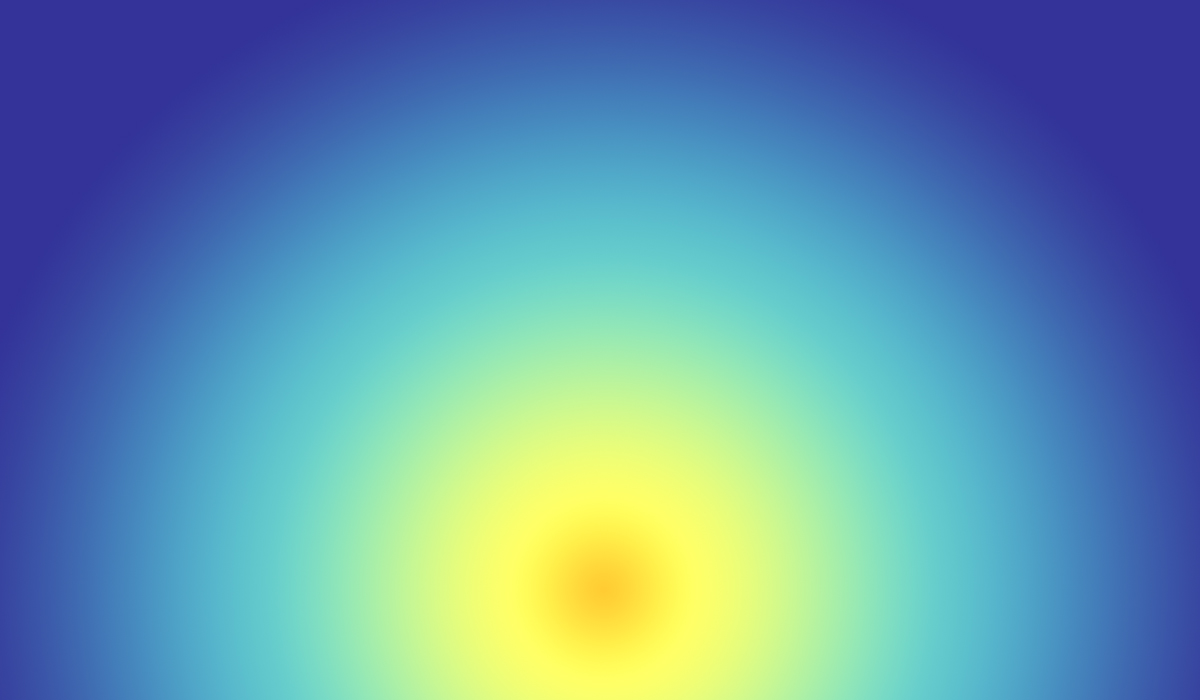
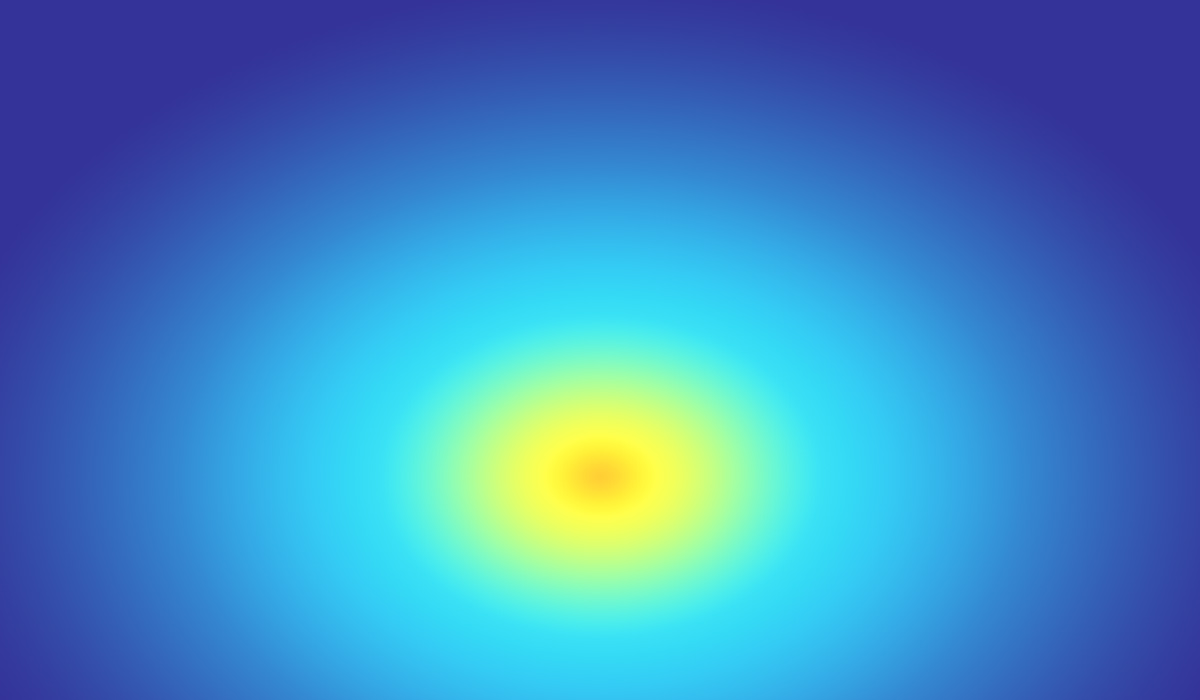
applied conditions

diff --git a/script.js b/script.js
@@ -2,8 +2,10 @@
  * Created by Shirley on 3/2/16.
  */
 
-var sunrise, sunset, sunriseText, sunsetText, time, condition, code, morningLight, eveningLight,city,tempF,tempC, current,msg;
+var sunrise, sunset, sunriseText, sunsetText, time, condition, code, morningLight, eveningLight,city,tempF,tempC, current,msg,seaLevel;
+var drops = [];
 var isF = true;
+var isSnow = false;
 var timezone = -9;
 
 if ("geolocation" in navigator) {
@@ -64,12 +66,6 @@ $('#abu-dhabi').on('click', function() {
     console.log("city: " + city + " condition:" + condition);
 
 });
-
-
-
-
-
-
 
 $('#unit').on('click',function(){
     isF = !isF;
@@ -140,7 +136,6 @@ $.simpleWeather({
         sunsetText = weather.sunset;
         sunrise = convertTime(weather.sunrise);
         sunset = convertTime(weather.sunset);
-
     }
 });
 
@@ -167,10 +162,15 @@ function setup() {
     $("#skyline").height(0.75*windowHeight-0.66*size);
 
     bgImg = loadImage("images/background.jpg");
+    bgImgAlt = loadImage("images/background-alt.jpg");
     cloudImg = loadImage("images/cloud.png");
 
     morningLight=constrain(map(time, sunrise-3600,36000, 255, 0),0,220);
     eveningLight=constrain(map(time, 50400, sunset+3600, 0, 255),0,220);//bright hours:10-2pm
+
+    for(i=0; i<200;i++){
+        drops.push(new Drop());
+    }
 }
 
 function draw() {
@@ -191,17 +191,12 @@ function draw() {
     risePoint = width / 6;
     setPoint = width - risePoint;
     seaLevel = height / 4 * 3;
-    imageMode(CORNER);
-    background(bgImg);
     morningLight=constrain(map(time, sunrise-3600,36000, 255, 0),0,220);
     eveningLight=constrain(map(time, 50400, sunset+3600, 0, 255),0,220);
 
-    //drawCloud();
-    drawSun();
-
+    checkCondition(code);
 
     //lights
-
     noStroke();
     fill(0, 0, 0, morningLight);
     rect(0, 0, width, height);
@@ -267,36 +262,6 @@ function windowResized() {
     seaLevel = height / 3 * 2;
 }
 
-function drawSun(){
-    //sun
-    sunX = map(time, sunrise, sunset, risePoint, setPoint);
-    sunR = dist(risePoint, seaLevel, width / 2, seaLevel + height / width);
-    if(time<sunrise-600 || time>sunset+600){
-        sunY = -100;
-    }else {
-        sunY = seaLevel + height / width - sqrt(sq(sunR) - sq(sunX - width / 2));
-    }
-    noStroke();
-    fill(255,240,200, 100);
-    ellipse(sunX, sunY, size*1.3, size*1.3);
-    ellipse(sunX, sunY, size*1.7, size*1.7);
-    fill(255);
-    ellipse(sunX, sunY, size, size);
-    fill(255,51,0, eveningLight/2);
-    ellipse(sunX, sunY, size, size);
-}
-
-function drawCloud(){
-    //cloud
-    imageMode(CENTER);
-    if(width>height) {
-        image(cloudImg, width/2,seaLevel/3*2+30,width/1.3,seaLevel/3*2);
-    }else {
-
-        image(cloudImg, width/2,seaLevel/3*2+30,width,seaLevel/3*2);
-    }
-}
-
 function checkTime(i) {
     if (i < 10) {
         i = "0" + i
@@ -335,5 +300,126 @@ function resetAnimation(){
         time = sunrise-6000;
     }else{
         time=current;
+    }
+}
+
+function drawSun(){
+    //sun
+    sunX = map(time, sunrise, sunset, risePoint, setPoint);
+    sunR = dist(risePoint, seaLevel, width / 2, seaLevel + height / width);
+    if(time<sunrise-600 || time>sunset+600){
+        sunY = -100;
+    }else {
+        sunY = seaLevel + height / width - sqrt(sq(sunR) - sq(sunX - width / 2));
+    }
+    noStroke();
+    fill(255,240,200, 100);
+    ellipse(sunX, sunY, size*1.3, size*1.3);
+    ellipse(sunX, sunY, size*1.7, size*1.7);
+    fill(255);
+    ellipse(sunX, sunY, size, size);
+    fill(255,51,0, eveningLight/2);
+    ellipse(sunX, sunY, size, size);
+}
+
+function drawCloud(){
+    imageMode(CENTER);
+    if(width>height) {
+        image(cloudImg, width/2,seaLevel/3*2,width/1.3,seaLevel/3*2+30);
+    }else {
+        image(cloudImg, width/2,seaLevel/3*2+30,width,seaLevel/3*2);
+    }
+}
+
+
+function drawDrops(isSnow){
+    for (var i=0; i<drops.length; i++) {
+        drops[i].isSnow = isSnow;
+        drops[i].move();
+
+    }
+}
+
+
+function Drop() {
+    this.x = random(width/4,width/4*3);
+    this.y = random(height/3,height);
+    this.offset = random(-30,30);
+    this.opacity;
+    this.isSnow = true;
+    this.size = size/10+random(0, 2);
+    this.move = function() {
+        this.y += this.offset/20+4;
+        this.opacity = map(this.y,height/3,seaLevel,255,0)+this.offset;
+        if(this.y>height){
+            this.y=height/3+random(40,100);
+            this.x = random(width/4,width/4*3);
+        }
+        fill(255,this.opacity);
+        if(this.isSnow){
+            ellipse(this.x, this.y, this.size, this.size);
+        }else {
+            rect(this.x, this.y, 1,this.size*3);
+        }
+
+
+
+    };
+}
+
+function checkCondition(code){
+    imageMode(CORNER);
+    if(['31','32','33','34','36'].indexOf(code)>=0){
+        //clear
+        //clear bg
+        //draw sun
+        background(bgImg);
+        drawSun();
+    }else if(['26','27','28'].indexOf(code)>=0){
+        //heavy cloud
+        //alt bg
+        //draw cloud
+        //draw sun
+        background(bgImgAlt);
+        drawCloud();
+        drawSun();
+    }else if(['29','30','44'].indexOf(code)>=0){
+        //light cloudy
+        //clear bg
+        //draw cloud
+        //draw sun
+        background(bgImg);
+        drawCloud();
+        drawSun();
+    }else if( ['5','6','7','13','14','15','16','17','18','41','42','43','46','5','6','7','35'].indexOf(code)>=0){
+        //snow
+        //alt bg
+        //draw cloud
+        //draw sun
+        //draw snow
+        background(bgImgAlt);
+        drawCloud();
+        drawSun();
+        drawDrops(true);
+    }else if( ['19','20','21','22','23','24','25'].indexOf(code)>=0){
+        //foggy
+        //alt bg
+        //draw sun
+        background(bgImgAlt);
+        drawSun();
+
+    }else if(['0', '1', '2','3','4','8','9','10','11','12','37','38','38','39','40','45','47'].indexOf(code) >= 0){
+        //rain
+        //alt bg
+        //draw cloud
+        //draw sun
+        //draw rain
+        background(bgImgAlt);
+        drawCloud();
+        drawSun();
+        drawDrops(false);
+    }else {
+        background(bgImg);
+        drawSun();
     }
 }

diff --git a/index.html b/index.html
@@ -3,6 +3,7 @@
 <head>
     <meta charset="UTF-8">
     <title>Weather Snapshot</title>
+    <meta name = "viewport" content = "initial-scale = 1, user-scalable = no">
     <link rel="stylesheet" href="style.css">
 </head>
 <body>
